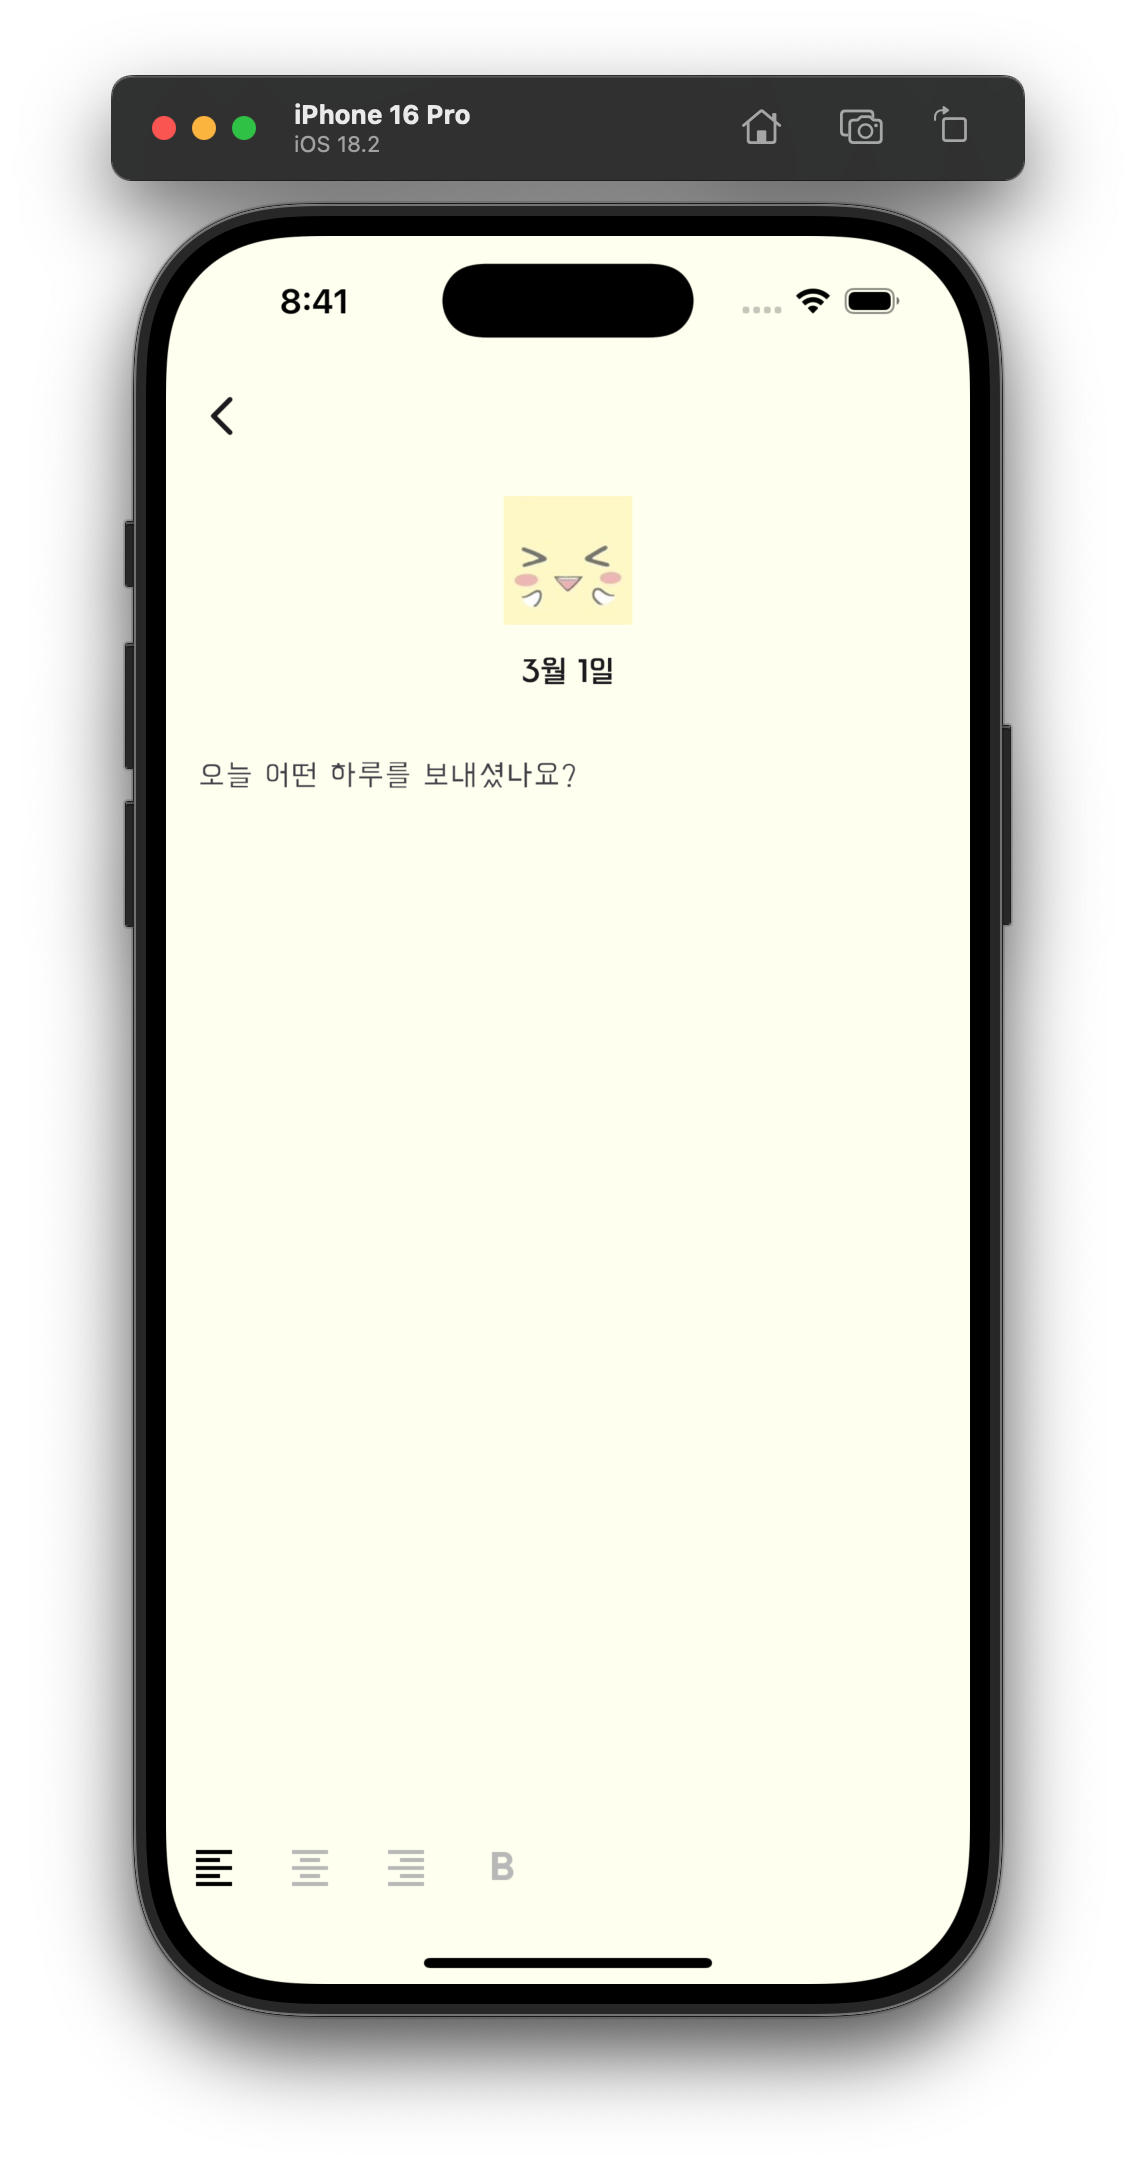
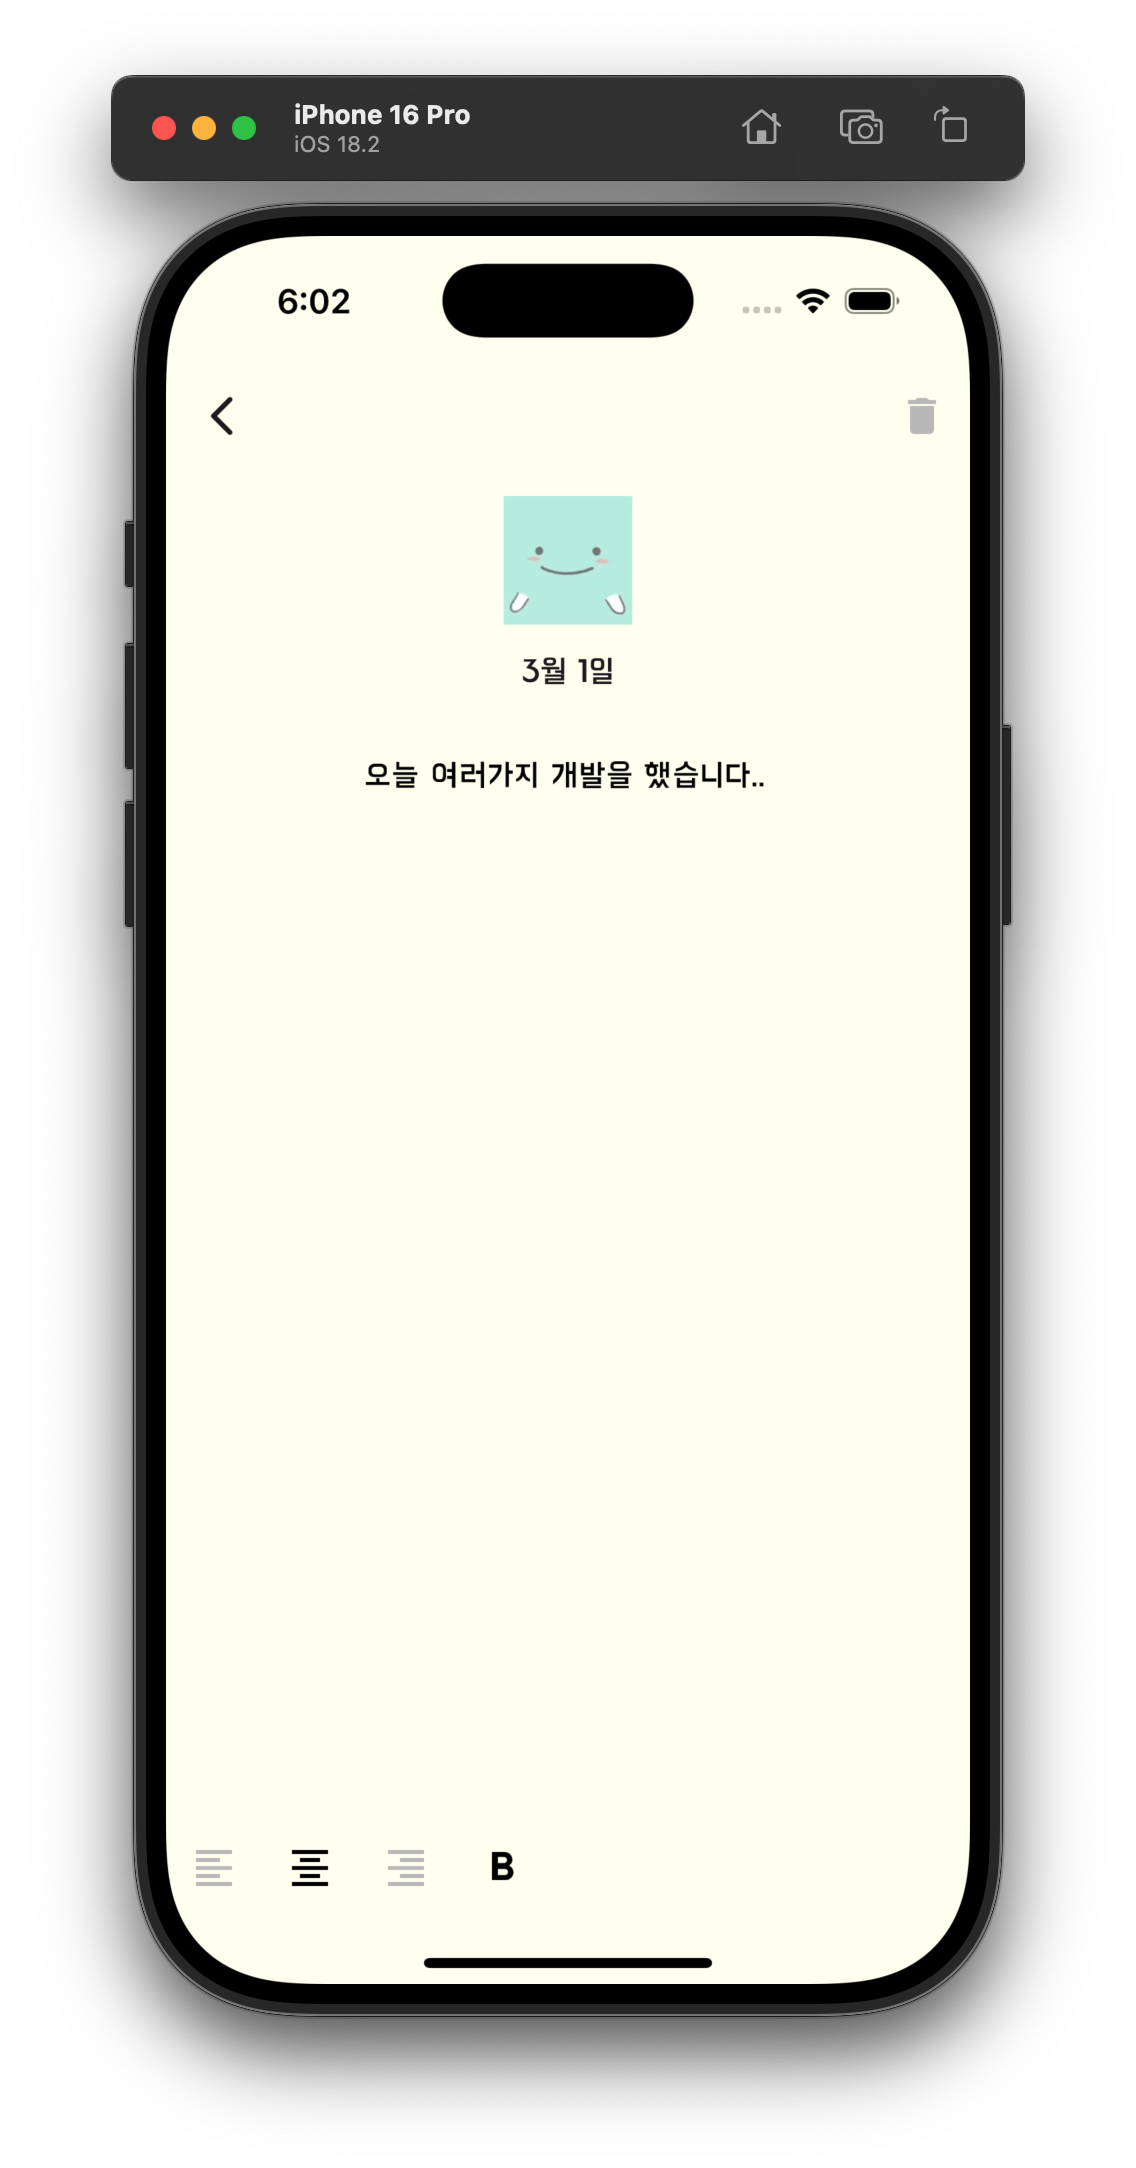
Update README

diff --git a/README.md b/README.md
@@ -6,8 +6,9 @@
 
 ![Main.png](process_images/Main.png)
 
-2025.2.29 - 일기 작성 페이지 디자인
+2025.3.1 - 일기 작성 페이지 디자인 및 로컬 데이터베이스 적용, 일부 기능 수정
 
+![Main(2).png](process_images/Main%282%29.png)
 ![Write.png](process_images/Write.png)
 
 ## Getting Started
